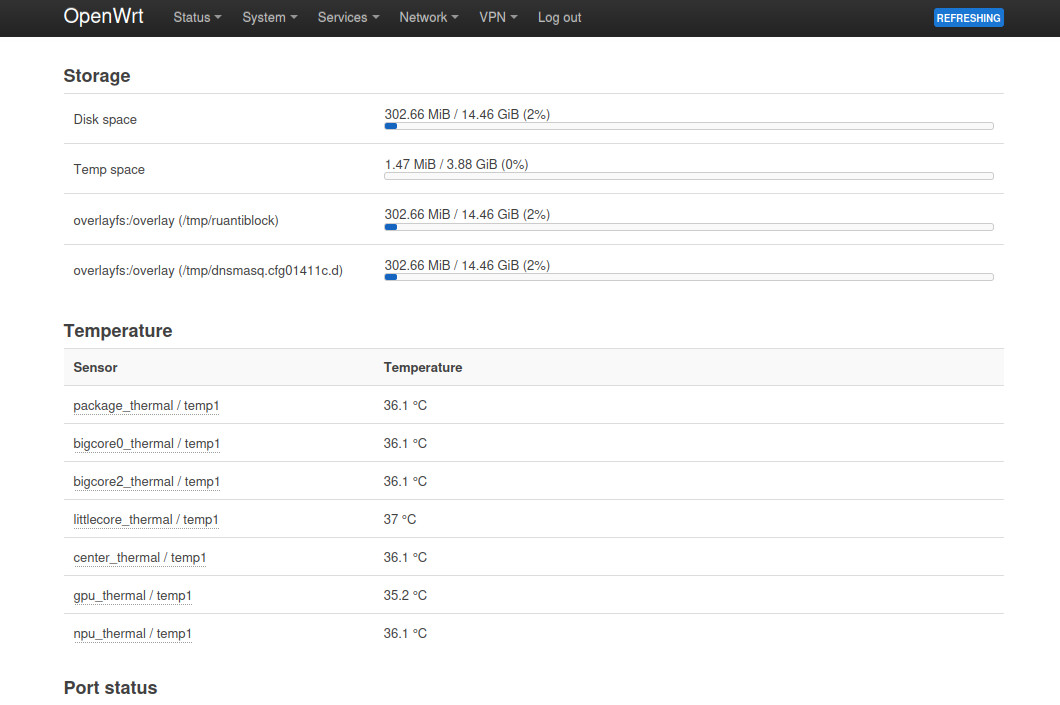
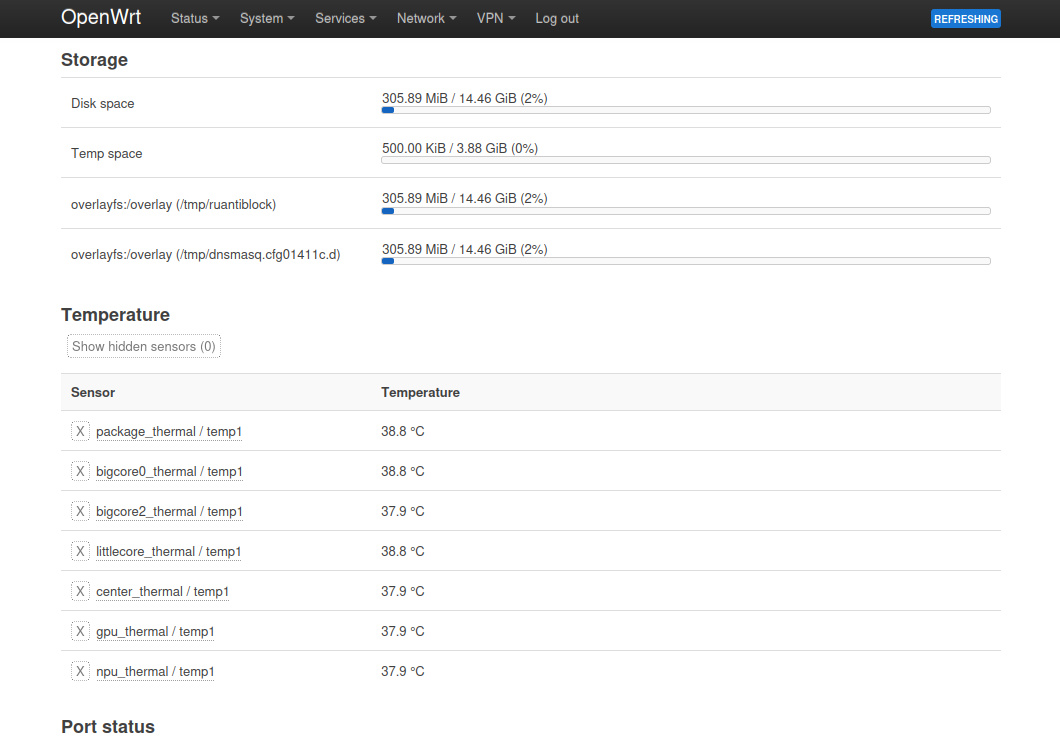
Hidden sensors on the status page

diff --git a/htdocs/luci-static/resources/view/status/include/27_temperature.js b/htdocs/luci-static/resources/view/status/include/27_temperature.js
@@ -34,14 +34,46 @@ document.head.append(E('style', {'type': 'text/css'},
 .temp-status-crit td {
 	color: var(--app-temp-status-font-color) !important;
 }
+.temp-status-unhide-all {
+	display: inline-block;
+	cursor: pointer;
+	margin: 2px !important;
+	padding: 2px 4px;
+	border: 1px dotted;
+	-webkit-border-radius: 4px;
+	-moz-border-radius: 4px;
+	border-radius: 4px;
+	opacity: 0.7;
+}
+.temp-status-unhide-all:hover {
+	opacity: 0.9;
+}
+.temp-status-hide-item {
+	display: inline-block;
+	cursor: pointer;
+	margin: 0 0.5em 0 0 !important;
+	padding: 0 4px;
+	border: 1px dotted;
+	-webkit-border-radius: 4px;
+	-moz-border-radius: 4px;
+	border-radius: 4px;
+	opacity: 0.7;
+}
+.temp-status-hide-item:hover {
+	opacity: 1.0;
+}
 `));
 
 return baseclass.extend({
-	title       : _('Temperature'),
+	title         : _('Temperature'),
 
-	tempHot     : 95,
+	viewName      : 'temp_status',
 
-	tempCritical: 105,
+	tempHot       : 95,
+
+	tempCritical  : 105,
+
+	hiddenItems   : new Set(),
 
 	callTempStatus: rpc.declare({
 		object: 'luci.temp-status',
@@ -50,15 +82,45 @@ return baseclass.extend({
 	}),
 
 	formatTemp(mc) {
-		return Number((mc / 1e3).toFixed(1));
+		return Number((mc / 1000).toFixed(1));
 	},
 
 	sortFunc(a, b) {
 		return (a.number > b.number) ? 1 : (a.number < b.number) ? -1 : 0;
 	},
 
+	restoreSettingsFromLocalStorage() {
+		let hiddenItems = localStorage.getItem(`luci-app-${this.viewName}-hiddenItems`);
+		if(hiddenItems) {
+			this.hiddenItems = new Set(hiddenItems.split(','));
+		};
+	},
+
+	saveSettingsToLocalStorage() {
+		localStorage.setItem(
+			`luci-app-${this.viewName}-hiddenItems`, Array.from(this.hiddenItems).join(','));
+	},
+
 	load() {
+		this.restoreSettingsFromLocalStorage();
 		return L.resolveDefault(this.callTempStatus(), null);
+	},
+
+	hideItem(path) {
+		let itemRow = document.querySelector(`[data-path="${path}"]`);
+		if(itemRow) {
+			itemRow.style.display = 'none';
+			this.hiddenItems.add(path);
+			this.saveSettingsToLocalStorage();
+			document.getElementById('temp-status-hnum').textContent = this.hiddenItems.size;
+		};
+	},
+
+	unhideAllItems() {
+		this.hiddenItems.clear();
+		this.saveSettingsToLocalStorage();
+		document.querySelectorAll(`[data-path]`).forEach(e => e.style.display = 'table-row');
+		document.getElementById('temp-status-hnum').textContent = this.hiddenItems.size;
 	},
 
 	render(tempData) {
@@ -115,17 +177,29 @@ return baseclass.extend({
 
 					let rowStyle = (temp >= tempCritical) ? ' temp-status-crit':
 						(temp >= tempHot) ? ' temp-status-hot' : '';
+					let display  = this.hiddenItems.has(j.path) ? 'none' : 'table-row';
 
 					tempTable.append(
-						E('tr', { 'class': 'tr' + rowStyle }, [
+						E('tr', {
+							'class'    : 'tr' + rowStyle,
+							'data-path': j.path ,
+							'style'    : `display:${display}`,
+						}, [
 							E('td', {
 									'class'     : 'td left',
 									'data-title': _('Sensor')
-								},
-								(tpointsString.length > 0) ?
-								`<span style="cursor:help; border-bottom:1px dotted" data-tooltip="${tpointsString}">${name}</span>` :
-								name
-							),
+								}, [
+								E('span', {
+									'class': 'temp-status-hide-item',
+									'title': _('Hide'),
+									'click': () => this.hideItem(j.path),
+								}, '&#935;'),
+								E('span', {},
+									(tpointsString.length > 0) ?
+									`<span style="cursor:help; border-bottom:1px dotted" data-tooltip="${tpointsString}">${name}</span>` :
+									name
+								),
+							]),
 							E('td', {
 									'class'     : 'td left',
 									'data-title': _('Temperature')
@@ -146,6 +220,22 @@ return baseclass.extend({
 				)
 			);
 		};
-		return tempTable;
+
+		return E('div', { 'class': 'cbi-section' }, [
+			E('div',
+				{ 'style': 'margin-bottom:1em; padding:0 4px;' },
+				E('span', {
+					'class': 'temp-status-unhide-all',
+					'href' : 'javascript:void(0)',
+					'click': () => this.unhideAllItems(),
+				}, [
+					_('Show hidden sensors'),
+					' (',
+					E('span', { 'id': 'temp-status-hnum' }, this.hiddenItems.size),
+					')',
+				])
+			),
+			tempTable,
+		]);
 	},
 });

diff --git a/README.md b/README.md
@@ -7,16 +7,16 @@ OpenWrt >= 21.02.
 
 ## Installation notes
 
-    wget --no-check-certificate -O /tmp/luci-app-temp-status_0.5.4-r1_all.ipk https://github.com/gSpotx2f/packages-openwrt/raw/master/current/luci-app-temp-status_0.5.4-r1_all.ipk
-    opkg install /tmp/luci-app-temp-status_0.5.4-r1_all.ipk
-    rm /tmp/luci-app-temp-status_0.5.4-r1_all.ipk
+    wget --no-check-certificate -O /tmp/luci-app-temp-status_0.5.5-r1_all.ipk https://github.com/gSpotx2f/packages-openwrt/raw/master/current/luci-app-temp-status_0.5.5-r1_all.ipk
+    opkg install /tmp/luci-app-temp-status_0.5.5-r1_all.ipk
+    rm /tmp/luci-app-temp-status_0.5.5-r1_all.ipk
     /etc/init.d/rpcd reload
 
 i18n-ru:
 
-    wget --no-check-certificate -O /tmp/luci-i18n-temp-status-ru_0.5.4-r1_all.ipk https://github.com/gSpotx2f/packages-openwrt/raw/master/current/luci-i18n-temp-status-ru_0.5.4-r1_all.ipk
-    opkg install /tmp/luci-i18n-temp-status-ru_0.5.4-r1_all.ipk
-    rm /tmp/luci-i18n-temp-status-ru_0.5.4-r1_all.ipk
+    wget --no-check-certificate -O /tmp/luci-i18n-temp-status-ru_0.5.5-r1_all.ipk https://github.com/gSpotx2f/packages-openwrt/raw/master/current/luci-i18n-temp-status-ru_0.5.5-r1_all.ipk
+    opkg install /tmp/luci-i18n-temp-status-ru_0.5.5-r1_all.ipk
+    rm /tmp/luci-i18n-temp-status-ru_0.5.5-r1_all.ipk
 
 ## Screenshots:
 
